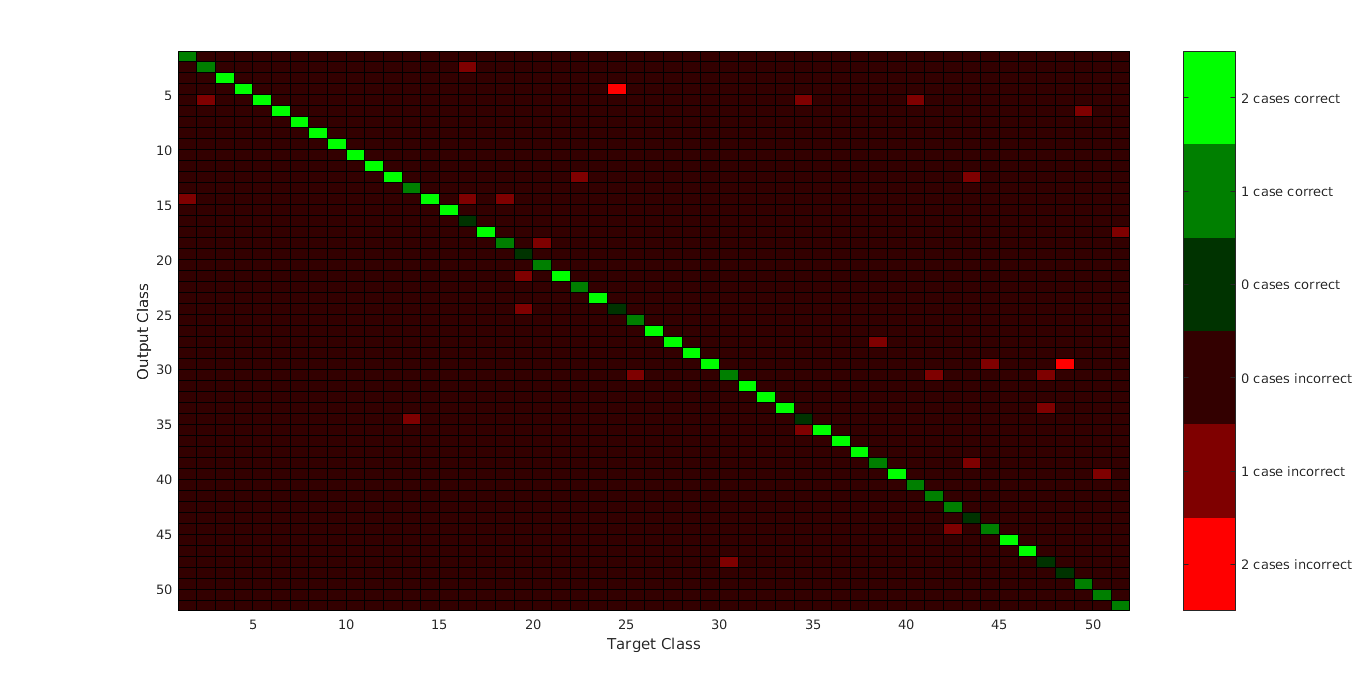
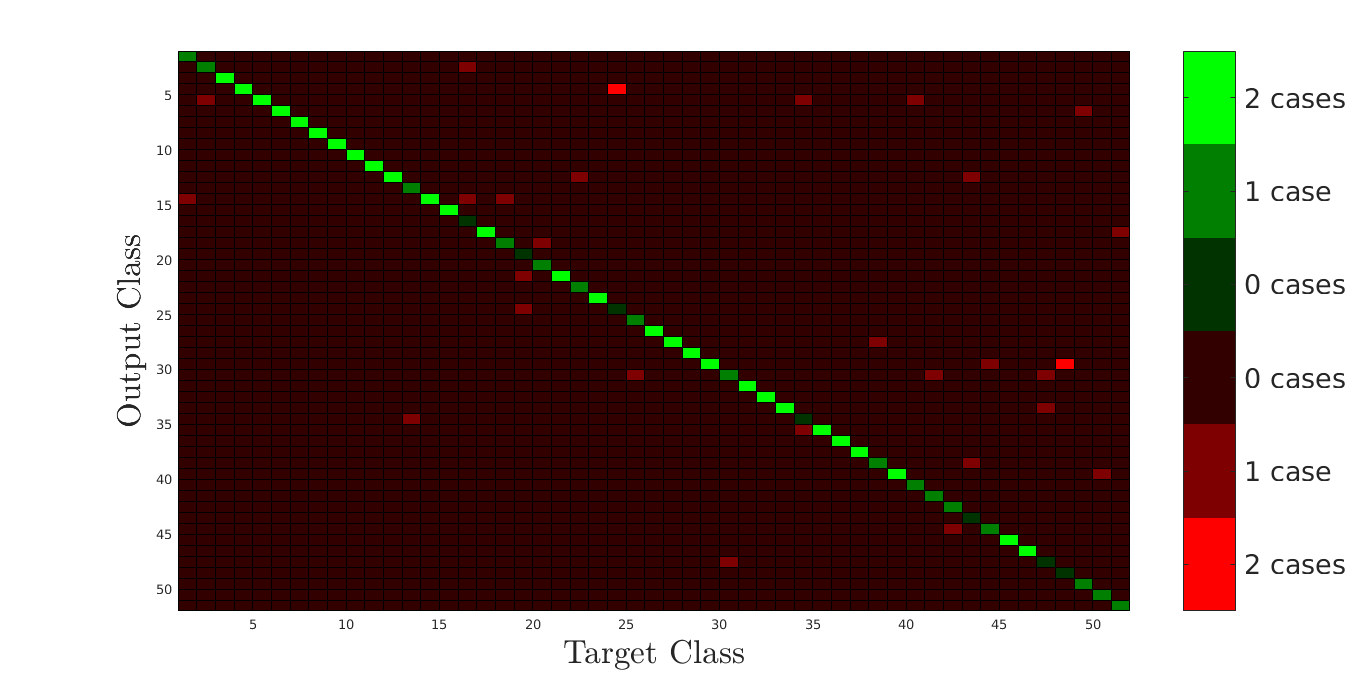
Changed confusion plot

diff --git a/scripts/PlotConfusionMatrix.m b/scripts/PlotConfusionMatrix.m
@@ -30,11 +30,13 @@ map = [%r,      g,      b;
         0,      0.5,    0;
         0,      1,      0];
 
+set(0,'defaulttextinterpreter','latex')
+set(gca,'FontSize', 10)
 colormap(map)
-labels = {'2 cases incorrect', '1 case incorrect', '0 cases incorrect', '0 cases correct', '1 case correct', '2 cases correct'};
-lcolorbar(labels)
-xlabel('Target Class')
-ylabel('Output Class')
+labels = {'2 cases', '1 case', '0 cases', '0 cases', '1 case', '2 cases'};
+lcolorbar(labels, 'FontSize', 20)
+xlabel('Target Class', 'FontSize', 25)
+ylabel('Output Class', 'FontSize', 25)
 set(gca,'YDir','reverse')
 
 end
